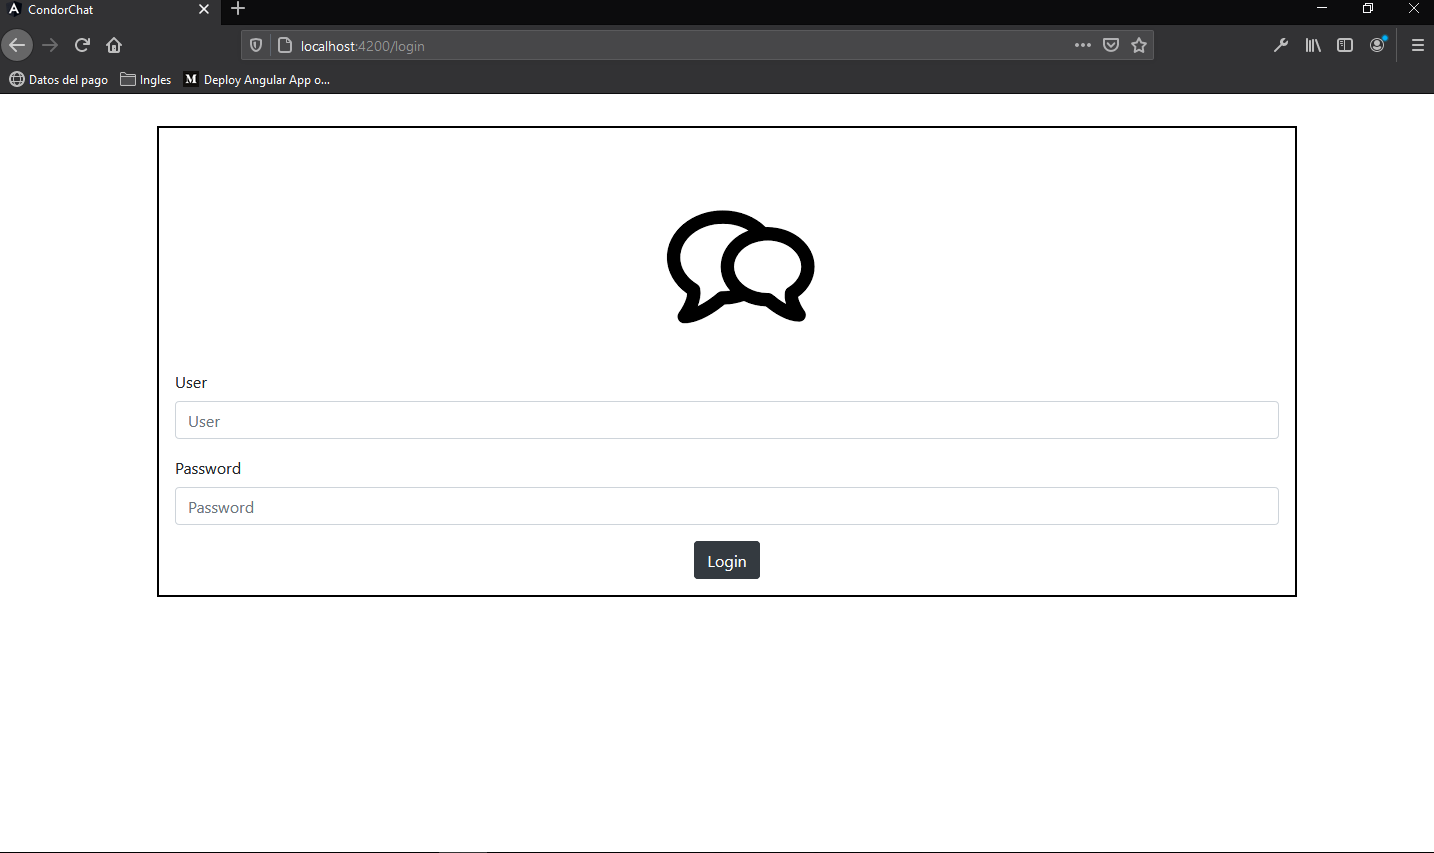
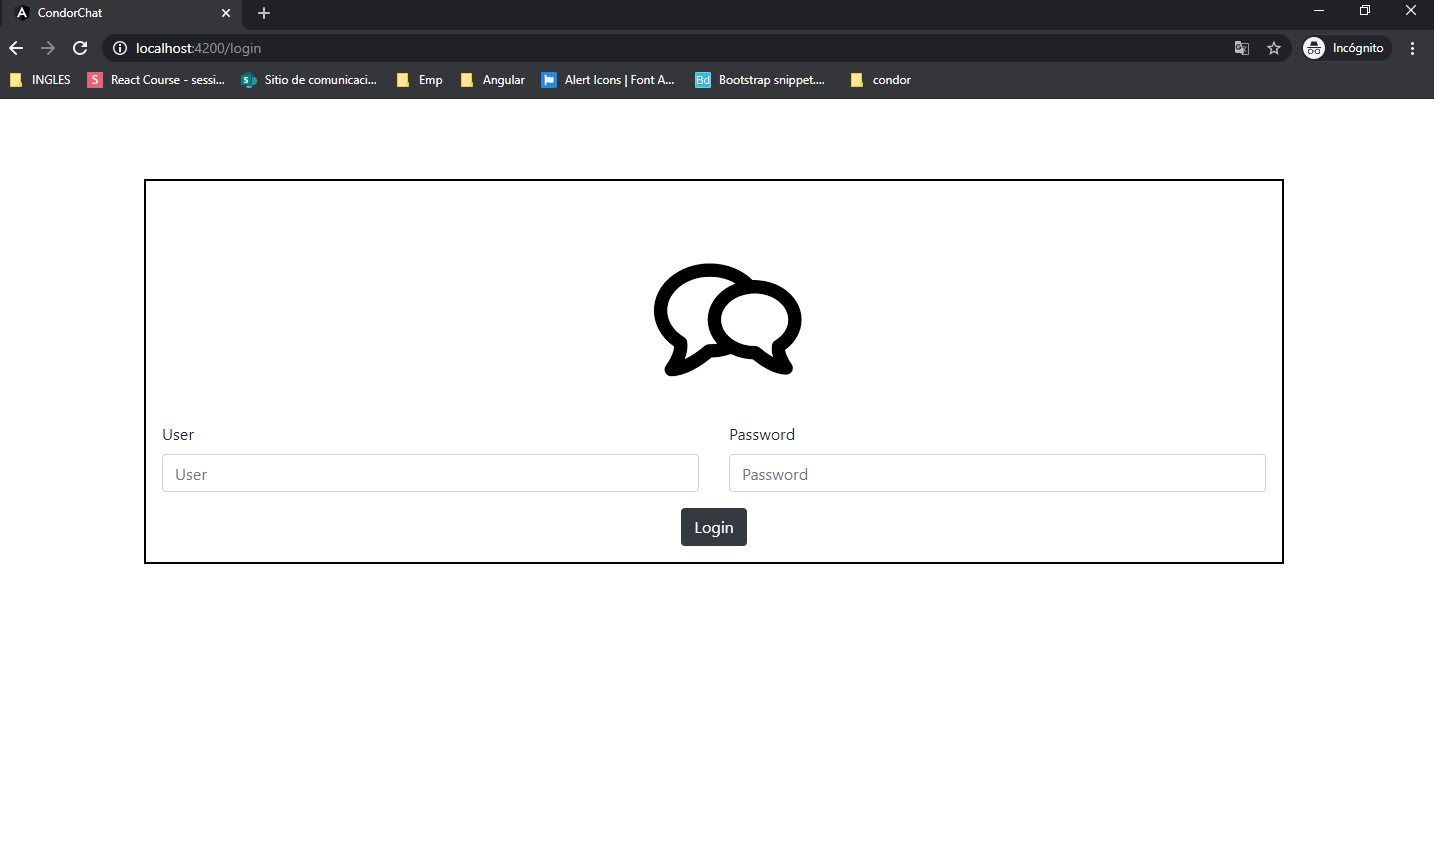
Corrections

diff --git a/src/app/layout/login/login.component.html b/src/app/layout/login/login.component.html
@@ -3,28 +3,36 @@
     <div class="text-center">
       <img src="../assets/images/chatImage.png" class="rounded" alt="...">
     </div>
-    <div class="form-group">
-      <label for="exampleInputEmail1">User</label>
-      <input type="text" class="form-control" id="user" inputId="user" formControlName="user" placeholder="User"
-        ng-class="{'error': user.errors}">
-      <div *ngIf="user.errors && user.dirty">
-        <p *ngIf="user.errors.required">
-          user is required
-        </p>
+    <div class="form-group row">
+      <div class="col-md-6 bg-white ">
+        <label for="exampleInputEmail1">User</label>
+        <input type="text" class="form-control" id="user" inputId="user" formControlName="user" placeholder="User"
+          ng-class="{'error': user.errors}">
+        <div *ngIf="user.errors && user.dirty">
+          <p *ngIf="user.errors.required">
+            user is required
+          </p>
+        </div>
       </div>
-    </div>
-    <div class="form-group">
-      <label for="exampleInputPassword1">Password</label>
-      <input type="password" class="form-control" id="password" inputId="password" formControlName="password"
-        placeholder="Password">
-      <div *ngIf="password.errors && password.dirty">
-        <p *ngIf="password.errors.required">
-          password is requerid
-        </p>
+      <div class="col-md-6 bg-white ">
+        <label for="exampleInputPassword1">Password</label>
+        <input type="password" class="form-control" id="password" inputId="password" formControlName="password"
+          placeholder="Password">
+        <div *ngIf="password.errors && password.dirty">
+          <p *ngIf="password.errors.required">
+            password is requerid
+          </p>
+        </div>
       </div>
     </div>
     <div class="text-center">
       <button type="submit" class="btn btn btn-dark">Login</button>
+      <div *ngIf="error">
+        <br>
+        <div class="alert alert-danger p-1" role="alert">
+          <label>PassWord or User Failed!</label>
+        </div>
+      </div>
     </div>
   </form>
 </div>

diff --git a/src/app/core/shared/services/chat.service.ts b/src/app/core/shared/services/chat.service.ts
@@ -1,20 +1,23 @@
+import { HttpClient } from '@angular/common/http';
 import { Injectable } from '@angular/core';
 import { Observable } from 'rxjs';
+import { map } from 'rxjs/operators';
 import * as io from 'socket.io-client';
+import { User } from '../model/user';
+import { environment } from './../../../../environments/environment.prod';
 import { Message } from './../model/message';
 
 @Injectable({
   providedIn: 'root',
 })
 export class ChatService {
-  private url = 'http://localhost:3000';
+  private url = environment.apiUrl;
   private socket;
-  constructor() {
+  constructor(private http: HttpClient) {
     this.socket = io(this.url);
   }
 
   public sendMessage(message: Message): void {
-    // this.socket.emit('message', message);
     const room = this.getRoom(message.userTo, message.userfrom);
     message.room = room;
     this.socket.emit('chatMessage', message);
@@ -24,12 +27,12 @@ export class ChatService {
     this.socket.emit('chatMessage', message);
   }
 
-  public join(usernameFrom: string, usernameTo: string) {
+  public join(usernameFrom: string, usernameTo: string): void {
     const room = this.getRoom(usernameFrom, usernameTo);
     this.socket.emit('joinRoom', room);
   }
 
-  public joinGroup(group: string) {
+  public joinGroup(group: string): void {
     this.socket.emit('joinRoom', group);
   }
 
@@ -40,6 +43,30 @@ export class ChatService {
       });
     });
   };
+
+  getRooms(): Observable<User> {
+    return this.http.get(`${this.url}/api/room`).pipe(
+      map((response) => {
+        return response;
+      })
+    );
+  }
+
+  updateChat(id: string, messages: Message[]): Observable<Message> {
+    return this.http.put(`${this.url}/api/chat/${id}`, { messages }).pipe(
+      map((response) => {
+        return response;
+      })
+    );
+  }
+
+  loadChat(id: string): Observable<Message> {
+    return this.http.get(`${this.url}/api/chat/${id}`).pipe(
+      map((response) => {
+        return response;
+      })
+    );
+  }
 
   sortAlphabets(text): string {
     return text.split('').sort().join('');

diff --git a/src/app/core/shared/services/user.service.ts b/src/app/core/shared/services/user.service.ts
@@ -2,18 +2,18 @@ import { HttpClient } from '@angular/common/http';
 import { Injectable } from '@angular/core';
 import { Observable } from 'rxjs';
 import { map } from 'rxjs/operators';
-import { Message } from '../model/message';
 import { User } from '../model/user';
+import { environment } from './../../../../environments/environment.prod';
 
 @Injectable({
   providedIn: 'root',
 })
 export class UserService {
   constructor(private http: HttpClient) {}
-  private readonly urlLogin = `http://localhost:3000/api`;
+  private readonly urlLogin = environment.apiUrl;
 
   getUsers(): Observable<User> {
-    return this.http.get(`${this.urlLogin}/user`).pipe(
+    return this.http.get(`${this.urlLogin}/api/user`).pipe(
       map((response) => {
         return response;
       })
@@ -21,7 +21,7 @@ export class UserService {
   }
 
   getUser(id: string): Observable<User> {
-    return this.http.get(`${this.urlLogin}/user/${id}`).pipe(
+    return this.http.get(`${this.urlLogin}/api/user/${id}`).pipe(
       map((response) => {
         return response;
       })
@@ -29,31 +29,7 @@ export class UserService {
   }
 
   updateUser(id: string, user: User): Observable<User> {
-    return this.http.put(`${this.urlLogin}/user/${id}`, { user }).pipe(
-      map((response) => {
-        return response;
-      })
-    );
-  }
-
-  getRooms(): Observable<User> {
-    return this.http.get(`${this.urlLogin}/room`).pipe(
-      map((response) => {
-        return response;
-      })
-    );
-  }
-
-  updateChat(id: string, messages: Message[]): Observable<Message> {
-    return this.http.put(`${this.urlLogin}/chat/${id}`, { messages }).pipe(
-      map((response) => {
-        return response;
-      })
-    );
-  }
-
-  loadChat(id: string): Observable<Message> {
-    return this.http.get(`${this.urlLogin}/chat/${id}`).pipe(
+    return this.http.put(`${this.urlLogin}/api/user/${id}`, { user }).pipe(
       map((response) => {
         return response;
       })

diff --git a/src/app/layout/home/home.component.ts b/src/app/layout/home/home.component.ts
@@ -60,7 +60,7 @@ export class HomeComponent implements OnInit {
   }
 
   loadRooms(): void {
-    this.userService.getRooms().subscribe((response) => {
+    this.chatService.getRooms().subscribe((response) => {
       this.rooms = response['result'];
       console.log('rooms', this.rooms);
     });
@@ -90,7 +90,7 @@ export class HomeComponent implements OnInit {
   saveChat(messages: Message[]): void {
     const message = messages[0];
     const room = message.room;
-    this.userService.updateChat(room, messages).subscribe();
+    this.chatService.updateChat(room, messages).subscribe();
   }
 
   selectUSerChat(user: User): void {
@@ -98,7 +98,7 @@ export class HomeComponent implements OnInit {
     this.selectedUSer = user;
     this.chatService.join(user.username, this.session.user.username);
     const room = this.getRoom(user.username, this.session.user.username);
-    this.userService.loadChat(room).subscribe((messages) => {
+    this.chatService.loadChat(room).subscribe((messages) => {
       const messagesResult = messages['result'];
       if (messagesResult.length > 0) {
         const history = messagesResult[0].history;
@@ -114,7 +114,7 @@ export class HomeComponent implements OnInit {
     this.chatService.joinGroup(group);
     this.group = group;
     this.isGroup = true;
-    this.userService.loadChat(group).subscribe((messages) => {
+    this.chatService.loadChat(group).subscribe((messages) => {
       const messagesResult = messages['result'];
       if (messagesResult.length > 0) {
         const history = messagesResult[0].history;

diff --git a/src/app/layout/login/login.component.ts b/src/app/layout/login/login.component.ts
@@ -18,7 +18,7 @@ import { StorageService } from './../../core/shared/services/storage.service';
 })
 export class LoginComponent implements OnInit {
   formLogin: FormGroup;
-
+  error: boolean;
   constructor(
     private formBuild: FormBuilder,
     private authenticationService: AuthenticationService,
@@ -45,9 +45,13 @@ export class LoginComponent implements OnInit {
           if (response['status'] === 'success') {
             const userLogued = response['data'][0];
             this.login(userLogued);
+          } else {
+            this.error = true;
           }
         },
-        (error) => {}
+        (error) => {
+          console.log(error);
+        }
       );
     }
   }

diff --git a/src/app/core/shared/services/storage.service.ts b/src/app/core/shared/services/storage.service.ts
@@ -24,7 +24,7 @@ export class StorageService {
   }
 
   loadSessionData(): Session {
-    var sessionStr = this.localStorageService.getItem('currentUser');
+    const sessionStr = this.localStorageService.getItem('currentUser');
     return sessionStr ? <Session>JSON.parse(sessionStr) : null;
   }
 
@@ -34,7 +34,7 @@ export class StorageService {
   }
 
   getCurrentToken(): string {
-    var session = this.getCurrentSession();
+    const session = this.getCurrentSession();
     return session && session.token ? session.token : null;
   }
 

diff --git a/server/server.js b/server/server.js
@@ -60,12 +60,6 @@ mongoose.connect(url, { useNewUrlParser: true }, function (err) {
   Room.insertMany(arrRooms, function (error, result) {
     console.log(error);
   });
-
-  //var arrHistory = [{ id: "ap", history: "", from: "andres", to: "pepe" }];
-
-  // historyChat.insertMany(arrHistory, function (error, result) {
-  //   console.log(error);
-  // });
 });
 
 //Api

diff --git a/src/environments/environment.ts b/src/environments/environment.ts
@@ -3,7 +3,8 @@
 // The list of file replacements can be found in `angular.json`.
 
 export const environment = {
-  production: false
+  production: false,
+  apiUrl: 'http://localhost:3000',
 };
 
 /*

diff --git a/src/app/layout/login/login.component.scss b/src/app/layout/login/login.component.scss
@@ -1,5 +1,5 @@
 .container {
   padding: 1rem;
   border: 2px solid black;
-  margin: 2rem 0rem 0rem 10rem;
+  margin-top: 5rem;
 }

diff --git a/src/environments/environment.prod.ts b/src/environments/environment.prod.ts
@@ -1,3 +1,4 @@
 export const environment = {
-  production: true
+  production: true,
+  apiUrl: 'http://localhost:3000',
 };
